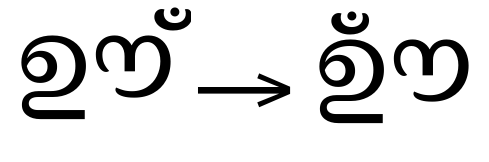
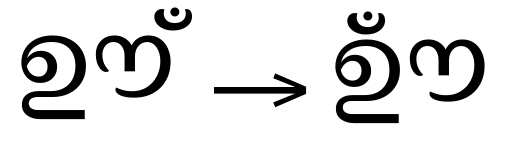
Malayalam: fix abvm-before image cut-off at margin.

diff --git a/images/malayalam/malayalam-image-generation-log.md b/images/malayalam/malayalam-image-generation-log.md
@@ -189,7 +189,7 @@ montage malayalam-haln-before.png right-arrow.png malayalam-haln-after.png -geom
 
 ## 6 `abvm`
 
-hb-view --font-size=110 --margin=2,16,2,16 --output-file=malayalam-abvm-before.png --features=-abvm --background=FFFFFF00 /usr/share/fonts/truetype/noto/NotoSerifMalayalam-Regular.ttf --unicodes=0d0a,0d01
+hb-view --font-size=110 --margin=2,32,2,16 --output-file=malayalam-abvm-before.png --features=-abvm --background=FFFFFF00 /usr/share/fonts/truetype/noto/NotoSerifMalayalam-Regular.ttf --unicodes=0d0a,0d01
 
 hb-view --font-size=110 --margin=2,16,2,16 --output-file=malayalam-abvm-after.png --features=+abvm --background=FFFFFF00 /usr/share/fonts/truetype/noto/NotoSerifMalayalam-Regular.ttf --unicodes=0d0a,0d01
 
